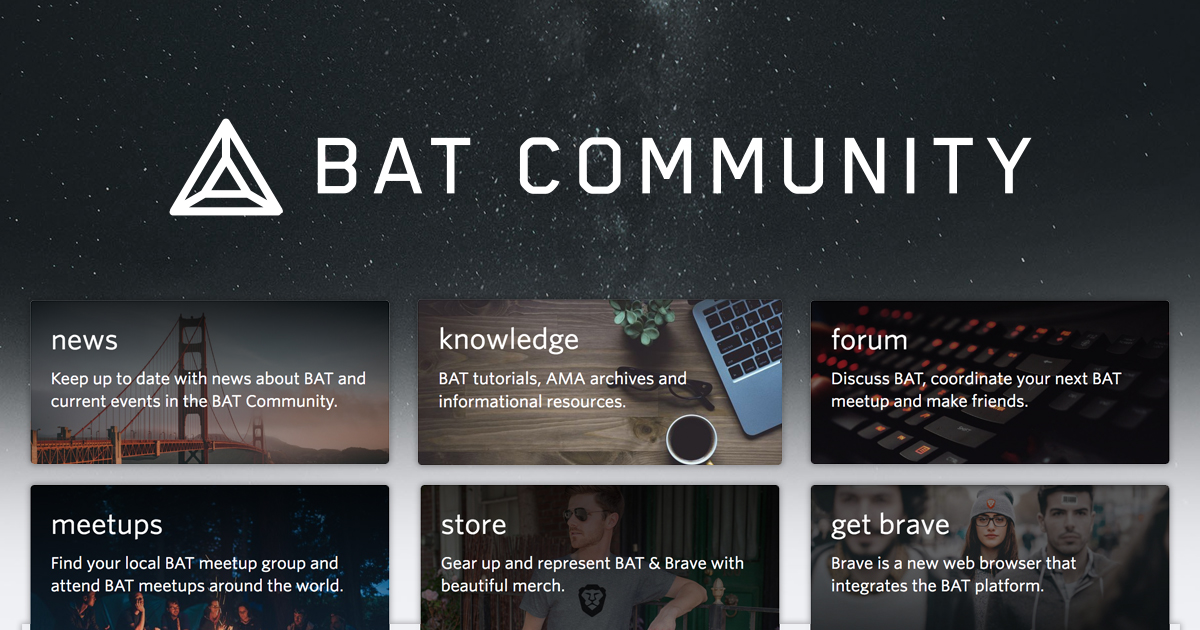
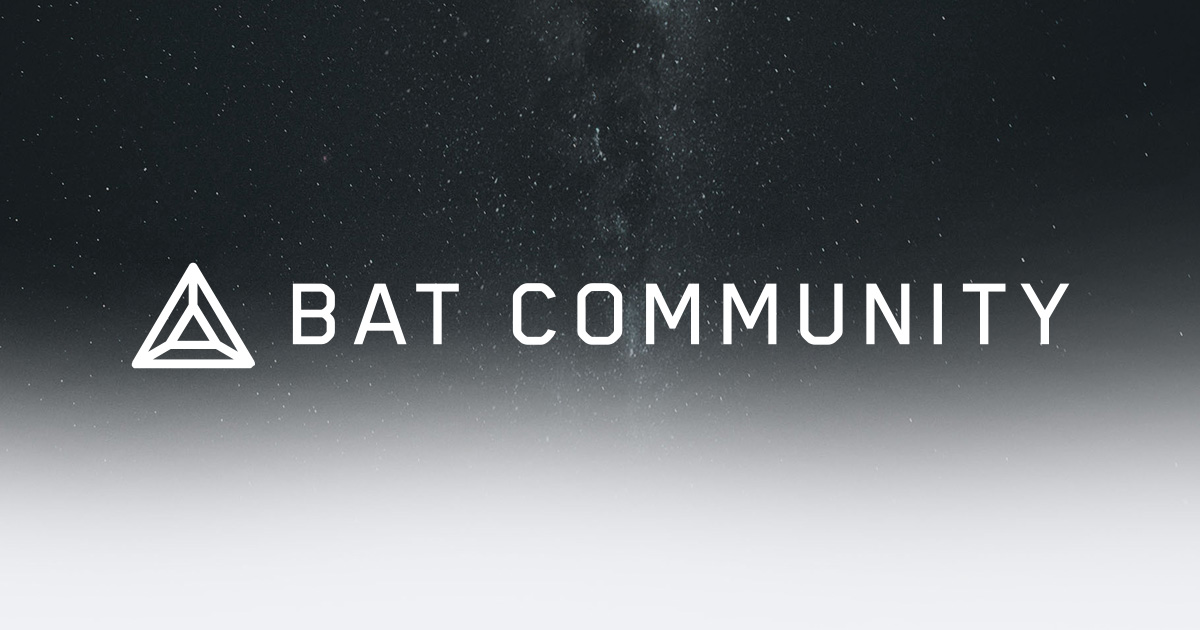
Remove old images

diff --git a/index.html b/index.html
@@ -13,11 +13,11 @@
     <!-- CSP -->
     <meta http-equiv="Content-Security-Policy" content="
     default-src 'self'; 
-    script-src 'self' 'unsafe-inline' https://*.jquery.com https://*.bootstrapcdn.com 
+    script-src 'self' 'unsafe-inline' https://*.brave.com https://*.jquery.com https://*.bootstrapcdn.com 
     https://cdn.syndication.twimg.com https://platform.twitter.com;
     style-src 'self' 'unsafe-inline' https://brave.moodyroosterdesign.com https://platform.twitter.com  https://*.bootstrapcdn.com
     https://*.fontawesome.com https://ton.twimg.com https://cloud.typography.com;
-    img-src 'self' data: https://brave.com https://*.meetupstatic.com https://*.twimg.com https://*.twitter.com; 
+    img-src 'self' data: https://brave.com https://*.brave.com https://*.meetupstatic.com https://*.twimg.com https://*.twitter.com; 
     child-src 'none';
     frame-src https://*.vimeo.com https://*.twitter.com;
     font-src data: https://*.fontawesome.com;
